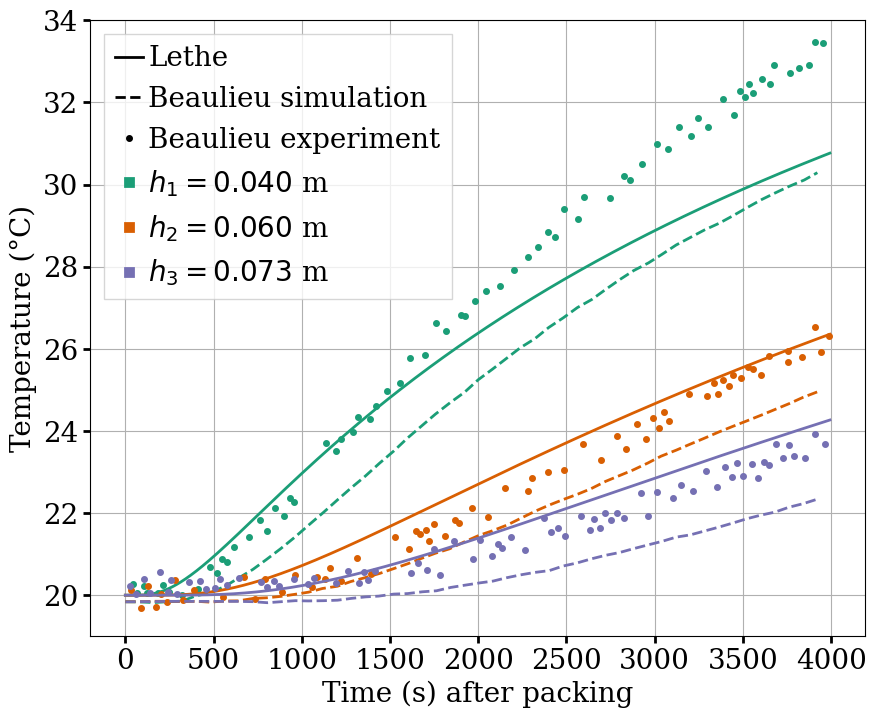
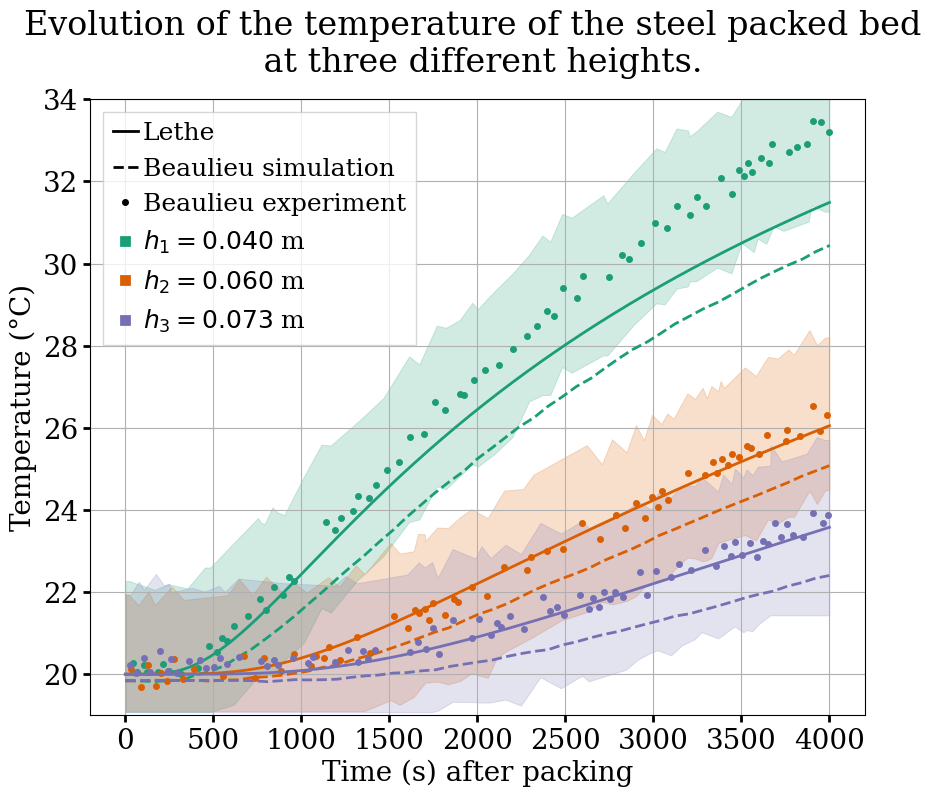
update doc

diff --git a/doc/source/examples/dem-mp/heated-packed-bed/heated-packed-bed.rst b/doc/source/examples/dem-mp/heated-packed-bed/heated-packed-bed.rst
@@ -3,7 +3,7 @@ Heated Packed Bed
 ==========================
 
 This example simulates the heating of a packed bed using the discrete element method (DEM) and heat transfer models. It is based on the validation case of Beaulieu [#Beaulieu2020]_ with stainless steel.
-More information regarding the DEM parameters is given in the Lethe documentation, i.e. `DEM parameters <../../../parameters/dem/dem.html>`_.
+More information regarding the Multiphysic DEM parameters is given in the Lethe documentation, i.e. `DEM parameters <../../../parameters/dem/dem.html>`_.
 
 
 ----------------------------------
@@ -25,8 +25,9 @@ Files Used in This Example
 All files mentioned below are located in the example's folder (``examples/dem-mp/3d-heated-packed-bed``).
 
 - Parameter file to load particles: ``load-packed-bed.prm``
-- Parameter file for the simulation: ``heat-packed-bed.prm``
-- Geometry files for solid surfaces: ``square-top.geo``, ``square-side.geo``, ``square-rake.geo``
+- Parameter file to flip gravity: ``flip-packed-bed.prm``
+- Parameter file for the heating: ``heat-packed-bed.prm``
+- Geometry files for solid surfaces: ``square-top.geo``, ``square-rake.geo``, ``square-side.geo``
 - Post-processing Python script: ``bed-postprocessing.py``
 
 
@@ -36,9 +37,18 @@ Description of the Case
 
 This example is run in three stages. 
 First, during the loading stage (:math:`0-6` s), :math:`8849` particles are inserted with a temperature of :math:`20°C` in a rectangular box. In this part of the simulation, :math:`g = 9.81 \times e_x` because we insert the particles from the side of the box. When particles are still enough, we use a solid surface to even out the particles on the side of the packed bed. Then, a second solid surface is placed on the side to close the box and keep the particles in place for the next stage of the simulation.
-The second stage (:math:`6-7` s) is where gravity is changed to :math:`g = -9.81 e_z` to be in the same direction as the experiment from Beaulieu [#Beaulieu2020]_ . We let the particles fall into their places for :math:`1` s. 
+The second stage (:math:`6-7` s) is where gravity is changed to :math:`g = -9.81 e_z` to be in the same direction as the experiment from Beaulieu [#Beaulieu2020]_. We let the particles fall into their places for :math:`1` s. 
 Finally, during the heating stage (:math:`7-4000` s), the temperature of a solid surface placed on top on the packed bed is set to :math:`53°C` and the particles are heated through this top wall.
 
+.. image:: images/heated-steel-rake.png
+    :width: 350
+
+.. image:: images/heated-steel-side.png
+    :width: 350
+
+.. image:: images/heated-steel-final.png
+    :width: 350
+    :align: center
 
 --------------
 Parameter File
@@ -47,21 +57,21 @@ Parameter File
 Mesh
 ~~~~
 
-The domain we simulate is a rectangular box with dimensions :math:`0.3\times0.1\times0.2` meters and is made using the deal.ii grid generator.
+The domain is a rectangular box with dimensions :math:`0.3\times0.1\times0.2` meters and is made using the deal.ii grid generator.
 
 .. code-block:: text
 
     subsection mesh
       set type               = dealii
-      set grid type          = hyper_rectangle
-      set grid arguments     = -0.2 , 0.0 , 0.0 : 0.1 , 0.1 , 0.2 : false
+      set grid type          = subdivided_hyper_rectangle
+      set grid arguments     = 3,1,2 : -0.2 , 0.0 , 0.0 : 0.1 , 0.1 , 0.2 : false
       set initial refinement = 2
     end
 
 Insertion Info
 ~~~~~~~~~~~~~~~~~
 
-In the loading stage, particles are inserted through the side of the box, with a temperature of :math:`20°C`. :math:`3400` particles are inserted at each insertion step (except the last one).
+In the loading stage, particles are inserted through the side of the box, with a temperature of :math:`20°C`. This initial temperature was chosen to match the experimental data, even though Beaulieu seems to have chosen an initial temperature of :math:`19.8°C` for her simulation.
 
 .. code-block:: text
 
@@ -84,7 +94,7 @@ Lagrangian Physical Properties
 
 The :math:`8849` particles are mono-dispersed, with a diameter of :math:`6.4` mm.
 
-The physical properties of the steel particles, the walls and the interstitial gas were all chosen to match those used by Beaulieu in her experiment and simulation.
+The physical properties of the steel particles, the walls and the interstitial gas were chosen to match those used by Beaulieu in her simulation. Only the wall and particles Young's modulus were chosen :math:`10` times as high as the ones used by Beaulieu, to be able to match the experimental porosity of :math:`42%` for the packed bed.
 
 .. code-block:: text
 
@@ -96,7 +106,7 @@ The physical properties of the steel particles, the walls and the interstitial g
         set diameter                          = 6.4e-3
         set number of particles               = 8849
         set density particles                 = 7747
-        set young modulus particles           = 5e6
+        set young modulus particles           = 50e6
         set poisson ratio particles           = 0.29
         set restitution coefficient particles = 0.8
         set friction coefficient particles    = 0.7
@@ -109,7 +119,7 @@ The physical properties of the steel particles, the walls and the interstitial g
         set surface roughness particles       = 19.e-9
         set thermal accommodation particles   = 0.7
       end
-      set young modulus wall           = 5e6
+      set young modulus wall           = 50e6
       set poisson ratio wall           = 0.33
       set restitution coefficient wall = 0.8
       set friction coefficient wall    = 0.7
@@ -131,7 +141,7 @@ The physical properties of the steel particles, the walls and the interstitial g
 Model Parameters
 ~~~~~~~~~~~~~~~~
 
-For the loading and the stage where gravity is flipped, the model parameters are defined as:
+For the first two stages, the model parameters are defined as:
 
 .. code-block:: text
 
@@ -174,7 +184,7 @@ For the heating of the particles, the parameter ``disable position integration``
 Solid Objects
 ~~~~~~~~~~~~~~~
 
-Three solid surfaces are used in this example. The first one is the one used to heat the packed bed from :math:`7` s to :math:`4000` s, with a temperature of :math:`53°C`. The second one is used to even the particles on the side of the packed bed. The last one closes the box to maintain the particles within when the direction of gravity is changed.
+Three solid surfaces are used in this example. The first one is the one used to heat the packed bed from :math:`7` s to :math:`4000` s, with a temperature of :math:`53°C`. The second one is used to even the particles on the side of the packed bed. The last one closes the box to maintain the particles within it when the direction of the gravity is changed. The last two walls are both set to ``adiabatic``, meaning that they are not conductive.
 
 .. code-block:: text
 
@@ -223,7 +233,7 @@ Three solid surfaces are used in this example. The first one is the one used to 
             set initial refinement = 0
           end
           subsection translational velocity
-            set Function expression = if(t>3.6 && x<-0.001,0.5,0) ; 0 ; 0
+            set Function expression = if(t>3.6 && x<-0.005,0.5,0) ; 0 ; 0
           end
           subsection angular velocity
             set Function expression = 0 ; 0 ; 0
@@ -233,6 +243,10 @@ Three solid surfaces are used in this example. The first one is the one used to 
         end
       end
     end
+
+.. note::
+
+  The results are quite sensitive to the position of the side wall (``square-side.msh``), so it could probably by set more precisely for more accurate results.
 
 
 Simulation Control
@@ -270,9 +284,9 @@ For the heating stage:
 
     subsection simulation control
       set time step         = 1
-      set time end          = 4000
-      set log frequency     = 1
-      set output frequency  = 1
+      set time end          = 4007
+      set log frequency     = 10
+      set output frequency  = 10
       set output path       = ./output/
       set output boundaries = true
     end
@@ -282,14 +296,21 @@ For the heating stage:
 Running the Simulation
 -----------------------
 
-This simulation is launched in two steps. First the particles are loaded with:
+This simulation is launched in three steps. First the particles are loaded with:
 
 .. code-block:: text
   :class: copy-button
 
   mpirun -np 4 lethe-particles load-packed-bed.prm
 
-Then we run the simulation to heat the particles:
+Then, the direction of gravity is changed with:
+
+.. code-block:: text
+  :class: copy-button
+
+  mpirun -np 4 lethe-particles flip-packed-bed.prm
+
+Finally, we run the simulation to heat the particles:
 
 .. code-block:: text
   :class: copy-button
@@ -297,29 +318,25 @@ Then we run the simulation to heat the particles:
   mpirun -np 4 lethe-particles heat-packed-bed.prm
 
 .. note::
-  In this example, the loading requires approximately 16 minutes, while simulating the temperature evolution requires 3 minutes on 4 cores.
+  In this example, the three stages require respectively around 16 minutes, 2 minutes and 2 minutes on 4 cores.
 
 
 ---------------
 Post-processing
 ---------------
 
-A Python post-processing code ``bed-postprocessing.py`` is provided with this example. It is used to compare the temperature of the packed-bed at three different heights :math:`h_1 = 4.0` cm, :math:`h_2 = 6.0` cm and :math:`h_3 = 7.3` cm (:math:`h = 0.0` cm corresponds to the top wall), with the results obtained by Beaulieu for stainless steel.
+A Python post-processing code ``bed-postprocessing.py`` is provided with this example. It is used to compare the temperature of the packed-bed at three different heights :math:`h_1 = 4.0` cm, :math:`h_2 = 6.0` cm and :math:`h_3 = 7.3` cm (:math:`h = 0.0` cm corresponds to the top wall), with the results obtained experimentally and numerically by Beaulieu for stainless steel.
 
 .. figure:: images/heights.png
     :height: 400
     :align: center
 
-The post-processing code can be run with the following line. The argument are the folder which contains the ``.prm`` file, the vtu id at which the loading ends (corresponding to :math:`7` s) and the height of the top wall when it has stopped.
+The post-processing code can be run with the following command. The argument is the folder which contains the ``.prm`` file.
 
 .. code-block:: text
   :class: copy-button
 
-    python3 bed-postprocessing.py  --folder ./ --start 139 --htop 0.198
-
-.. note::
-
-  The post-processing code may take a bit of time to run.
+    python3 bed-postprocessing.py  --folder ./
 
 .. important::
 
@@ -330,22 +347,22 @@ The post-processing code can be run with the following line. The argument are th
 Results
 -------
 
-The simulation can be visualised using Paraview as seen below.
-
-.. figure:: images/heated-steel.png
-    :width: 500
-    :align: center
-
-    Temperatures at the end of the simulation
-
 The following figure compares the temperature of the packed-bed at three different heights :math:`h_1 = 4.0` cm, :math:`h_2 = 6.0` cm and :math:`h_3 = 7.3` cm, with the results obtained by Beaulieu for stainless steel.
 
 .. figure:: images/mean-temperatures.png
     :width: 500
     :align: center
 
-The results show good agreement with the experimental data. However, since the heat transfer is very sensitive to the overlap, pushing the top wall more or less against the particles affects the results a lot and particularly the speed at which heat transfer propagates from the top wall. So the position of the top wall could be set more precisely to get even better results.
+The results show good agreement with the experimental and numerical results of Beaulieu but still undershoot a bit the temperature at :math:`h_1 = 4.0` cm compared to the experimental data. Our temperature curves are slightly higher than the ones numerically obtained by Beaulieu due to using the hertz contact radius instead of the analytical one. The higher Young's modulus also gives better results.
 
+It has been noticed while trying different methods to load the particles that the results change a lot according to the loading method but also depending on the walls friction coefficient.
+The following figure shows the results of the simulation with the ``friction coefficient wall`` set to :math:`1.0` instead of :math:`0.7`.
+
+.. figure:: images/mean-temperatures-friction.png
+    :width: 500
+    :align: center
+
+This ``friction coefficient wall`` allows to fit the experimental data better but it comes into question whether a friction coefficient of :math:`1.0` is realistic to model the Styrofoam walls used in the experiment. Also, other parameters like the ``rolling friction`` should have maybe been adjusted better to fit the experimental properties.
 
 ---------
 Reference

diff --git a/doc/source/examples/dem-mp/dem-mp.rst b/doc/source/examples/dem-mp/dem-mp.rst
@@ -10,6 +10,7 @@ We organize the DEM-Multiphysics examples from the simplest to the most complica
     :glob:
 
     heat-transfer-in-aligned-particles/heat-transfer-in-aligned-particles
+    heated-packed-bed/heated-packed-bed
 
 .. graphviz:: 
 
